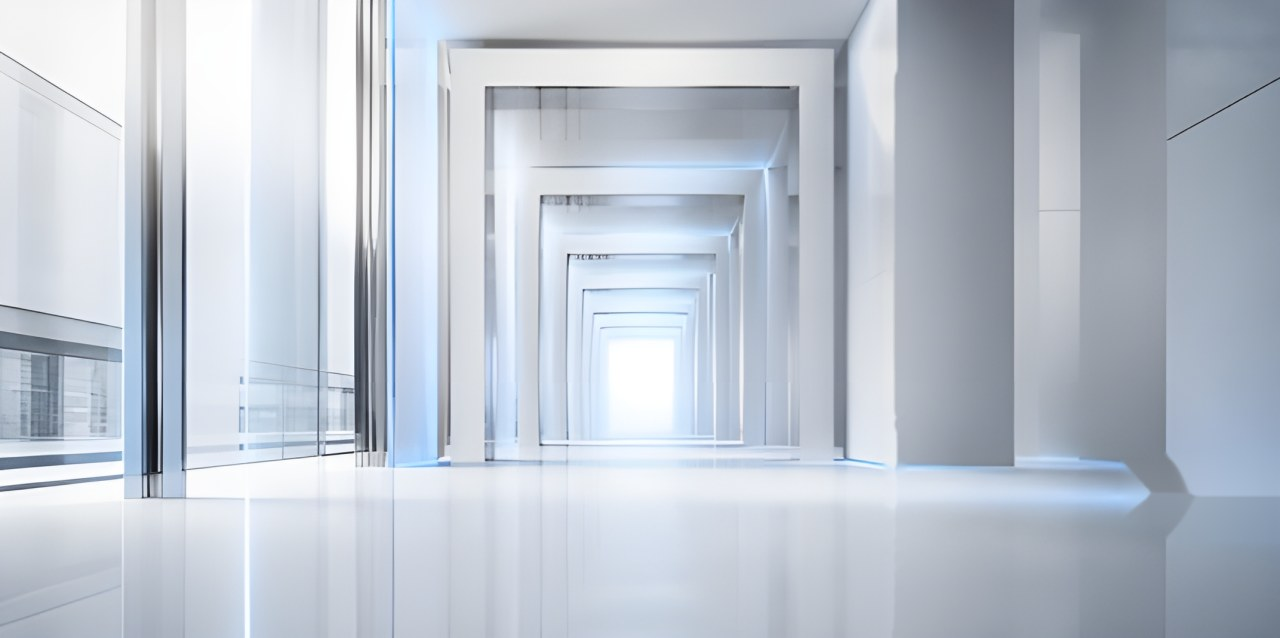
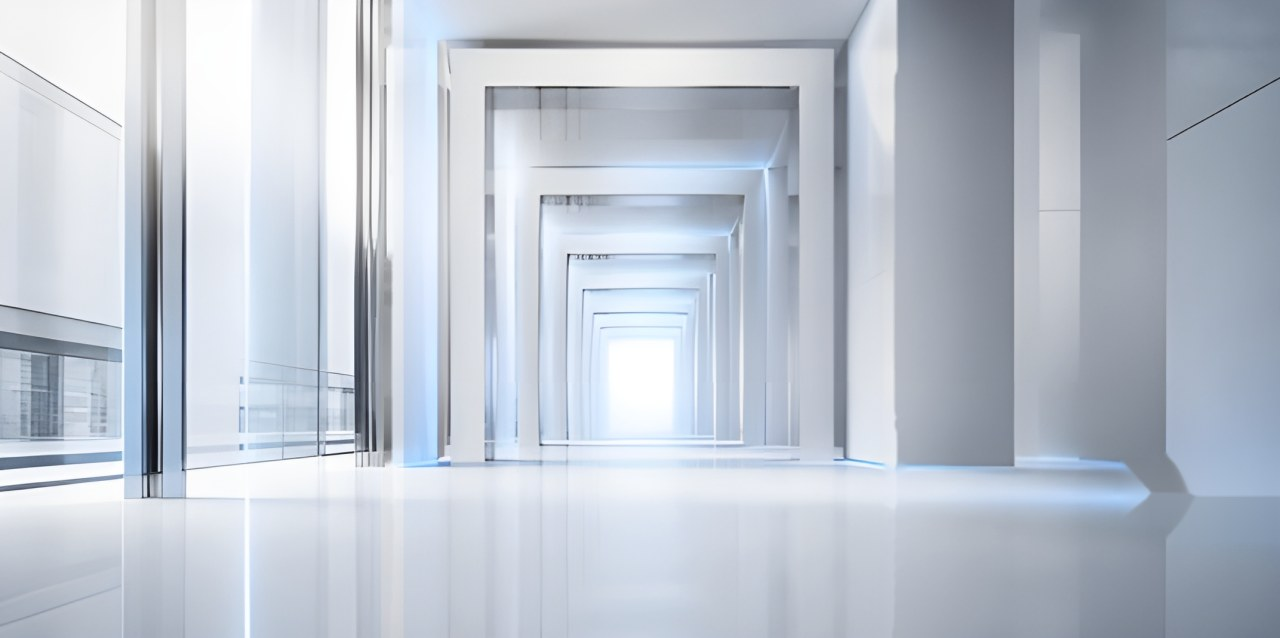
New floating-QR hero picture at 1.5x with a gentle float; remove the left blue line from the corridor background; one even spacing rhythm between sections

Changed region(s): [[0.2812, 0.0, 0.3125, 0.7445]]

diff --git a/client/src/visuals/hero.css b/client/src/visuals/hero.css
@@ -434,42 +434,40 @@
 
 .hw {
   position: relative;
-  /* Inside the page margins: about 2 cm clear of the window's right edge. */
-  width: 100%;
-  max-width: 900px;
-  justify-self: end;
+  /* 1.5× its column, growing leftwards into the picture's own white space; about 2 cm clear of the right edge. */
+  width: 150%;
+  margin-left: -50%;
   margin-right: max(0px, calc(76px - clamp(28px, 5vw, 96px)));
-  aspect-ratio: 1500 / 846;
-  /* The whole picture: its white melts into the page, and every edge is softly feathered, so no border shows. */
+  aspect-ratio: 1600 / 900;
+  z-index: 0;
   mix-blend-mode: multiply;
-  -webkit-mask-image: linear-gradient(to right, transparent 0%, #000 12%, #000 94%, transparent 100%), linear-gradient(to bottom, transparent 0%, #000 10%, #000 90%, transparent 100%);
+  -webkit-mask-image: linear-gradient(to right, transparent 0%, #000 12%, #000 94%, transparent 100%), linear-gradient(to bottom, transparent 0%, #000 8%, #000 92%, transparent 100%);
   -webkit-mask-composite: source-in;
-  mask-image: linear-gradient(to right, transparent 0%, #000 12%, #000 94%, transparent 100%), linear-gradient(to bottom, transparent 0%, #000 10%, #000 90%, transparent 100%);
+  mask-image: linear-gradient(to right, transparent 0%, #000 12%, #000 94%, transparent 100%), linear-gradient(to bottom, transparent 0%, #000 8%, #000 92%, transparent 100%);
   mask-composite: intersect;
+}
+.v-hero-copy {
+  position: relative;
+  z-index: 1;
 }
 .hw-img {
   position: absolute;
   inset: 0;
-  background: url('/bg/qr-wave.jpg') center / cover no-repeat;
+  background: url('/bg/qr-orbit.jpg') center / cover no-repeat;
+  will-change: transform;
+  animation: hw-float 7s ease-in-out infinite alternate;
 }
 @media (max-width: 760px) {
   .hw-img {
-    background-image: url('/bg/qr-wave-960.jpg');
+    background-image: url('/bg/qr-orbit-960.jpg');
   }
 }
-.hw-band {
-  clip-path: inset(var(--top) 0 var(--bot) 0);
-  will-change: transform;
-  animation: hw-wave 4.6s ease-in-out infinite;
-  animation-delay: calc(var(--i) * -0.42s);
-}
-@keyframes hw-wave {
-  0%,
-  100% {
-    transform: translateY(0);
+@keyframes hw-float {
+  from {
+    transform: translateY(0.6%) scale(1);
   }
-  50% {
-    transform: translateY(calc(-1px - var(--i) * 0.28px));
+  to {
+    transform: translateY(-0.9%) scale(1.012);
   }
 }
 .hw-glint {
@@ -494,12 +492,12 @@
 }
 @media (max-width: 900px) {
   .hw {
-    margin-right: 0;
-    justify-self: stretch;
+    width: 100%;
+    margin: 0;
   }
 }
 @media (prefers-reduced-motion: reduce) {
-  .hw-band,
+  .hw-img,
   .hw-glint {
     animation: none !important;
   }

diff --git a/client/src/pages/Landing.tsx b/client/src/pages/Landing.tsx
@@ -119,7 +119,7 @@ export function Landing() {
       </div>
       </div>
 
-      <section className="section" style={{ paddingTop: 0 }}>
+      <section className="section section--flush">
         <div className="wrap" style={{ position: 'relative' }}>
           <div className="studio">
             <div className="card">
@@ -262,12 +262,12 @@ export function Landing() {
             <p>QRaftly encodes, draws, checks and reads QR codes with its own implementation of the ISO/IEC 18004 standard. Each picture below is drawn from the real intermediate data for one link.</p>
           </div>
           <Pipeline />
-          <div className="section-title" style={{ marginTop: 56 }}>
+          <div className="section-title sub">
             <h2>What happens when someone scans</h2>
             <p>A dynamic code is a short link that QRaftly answers in a few milliseconds. Here is everything that happens in between.</p>
           </div>
           <ScanFlow />
-          <div className="v-show" style={{ marginTop: 40 }}>
+          <div className="v-show">
             <div className="v-show-text">
               <span className="kicker">
                 <Cpu size={15} /> Under the hood
@@ -293,7 +293,7 @@ export function Landing() {
             </div>
             <EncoderScene />
           </div>
-          <div style={{ marginTop: 40 }}>
+          <div className="block-gap">
             <FloatingBand>
               <h2 style={{ fontSize: 'clamp(24px, 3vw, 34px)', fontWeight: 800, letterSpacing: '-0.01em', margin: 0 }}>Measured, not promised</h2>
               <p className="muted" style={{ margin: '8px 0 0' }}>From the project's own test suite and benchmark.</p>
@@ -429,7 +429,7 @@ export function Landing() {
         </div>
       </section>
 
-      <section className="section" style={{ paddingTop: 10 }}>
+      <section className="section">
         <div className="wrap">
           <Tunnel>
             <h2>Print once. Update forever.</h2>

diff --git a/client/src/visuals/hero.tsx b/client/src/visuals/hero.tsx
@@ -108,20 +108,13 @@ export function LampScene({ className = '' }: { className?: string }) {
   );
 }
 
-// ------------------------------------------------------------ light: the QR landscape
+// ------------------------------------------------------------ light: the floating QR
 
-/**
- * Your QR landscape picture. The carpet of cubes is cut into thin horizontal bands that rise and fall a pixel or
- * two, each a little after the one above, so a very slight wave rolls through it; the rest stays still.
- */
+/** Your floating-QR picture: it drifts gently up and down while a soft light passes across it. */
 export function HeroWave({ className = '' }: { className?: string }) {
-  const bands = 9;
   return (
-    <div className={`hw ${className}`} role="img" aria-label="A QR code rising out of a landscape of cubes">
+    <div className={`hw ${className}`} role="img" aria-label="A glossy QR code made of glass cubes, floating over a pedestal">
       <div className="hw-img" />
-      {Array.from({ length: bands }, (_, i) => (
-        <div key={i} className="hw-img hw-band" style={{ '--i': i, '--top': `${58 + (i * 42) / bands}%`, '--bot': `${100 - (58 + ((i + 1) * 42) / bands)}%` } as CSSProperties} />
-      ))}
       <div className="hw-glint" />
     </div>
   );

diff --git a/client/src/styles.css b/client/src/styles.css
@@ -2216,3 +2216,27 @@ section[id],
   object-fit: contain;
   background: radial-gradient(120% 90% at 30% 10%, #ffffff, #f1f3f7 60%, #e4e8ee);
 }
+
+/* ------------------------------------------------------------ one even rhythm between sections */
+.section {
+  padding: 72px 0;
+}
+.section--flush {
+  padding-top: 0;
+}
+.section-title {
+  margin-bottom: 40px;
+}
+.section-title.sub {
+  margin-top: 72px;
+}
+.block-gap {
+  margin-top: 56px;
+}
+.gen-title {
+  padding-top: 72px;
+  padding-bottom: 40px;
+}
+.v-hero {
+  padding-bottom: 24px;
+}

diff --git a/client/src/visuals/visuals.css b/client/src/visuals/visuals.css
@@ -592,7 +592,7 @@
   grid-template-columns: minmax(0, 1.3fr) minmax(0, 0.8fr);
   gap: clamp(28px, 5vw, 64px);
   align-items: center;
-  padding: clamp(28px, 4vw, 52px) 0;
+  padding: 44px 0;
 }
 .v-show.flip > :first-child {
   order: 2;
